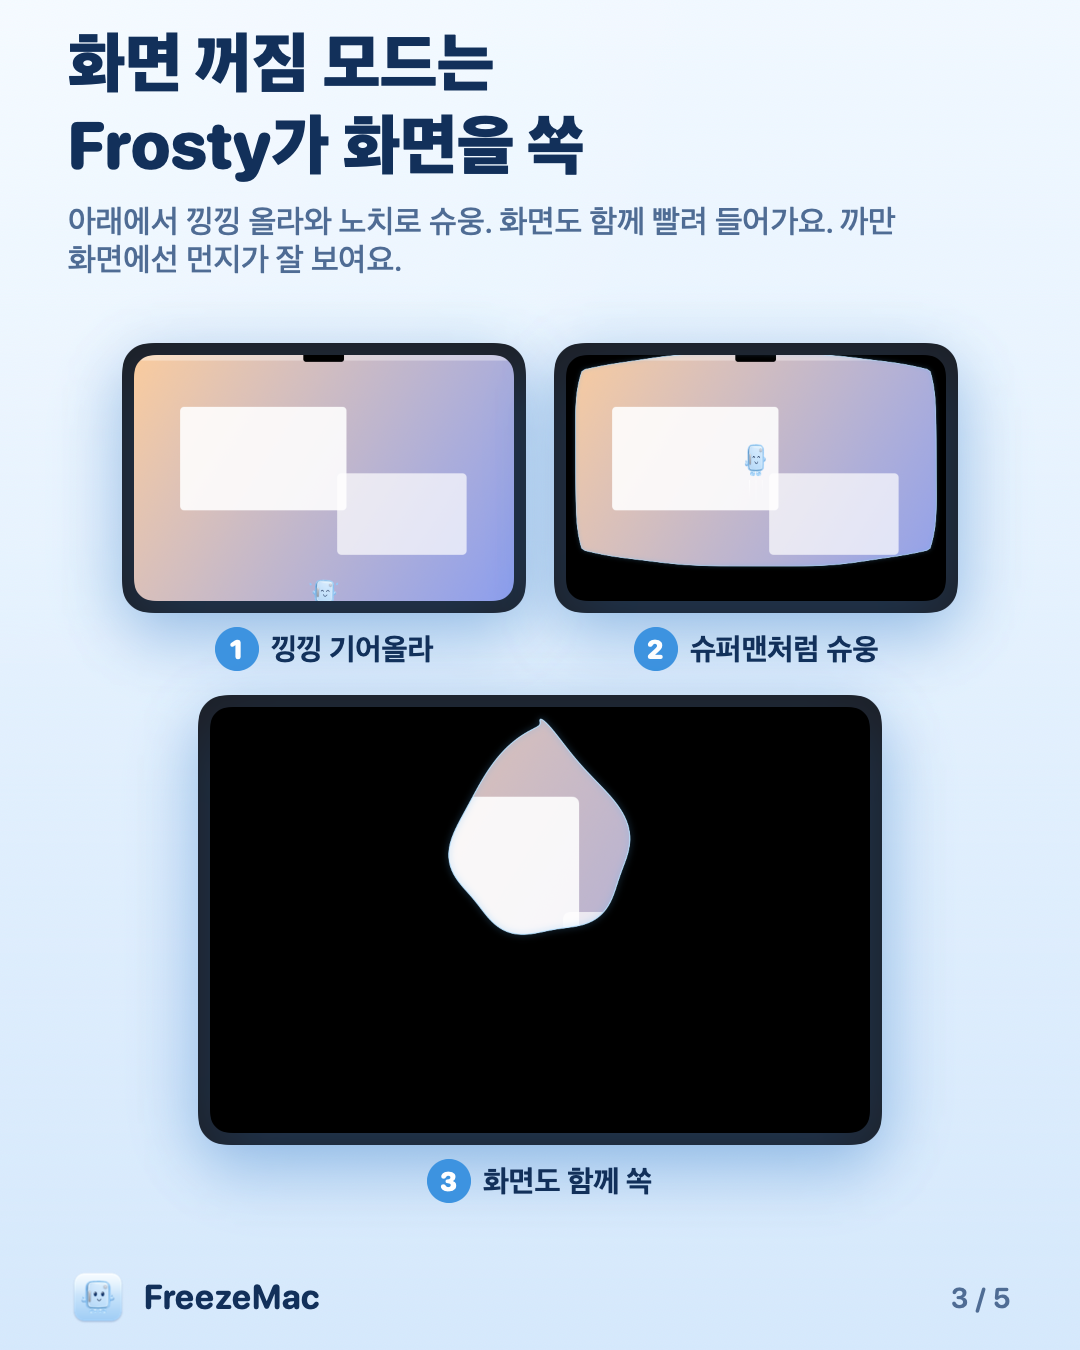
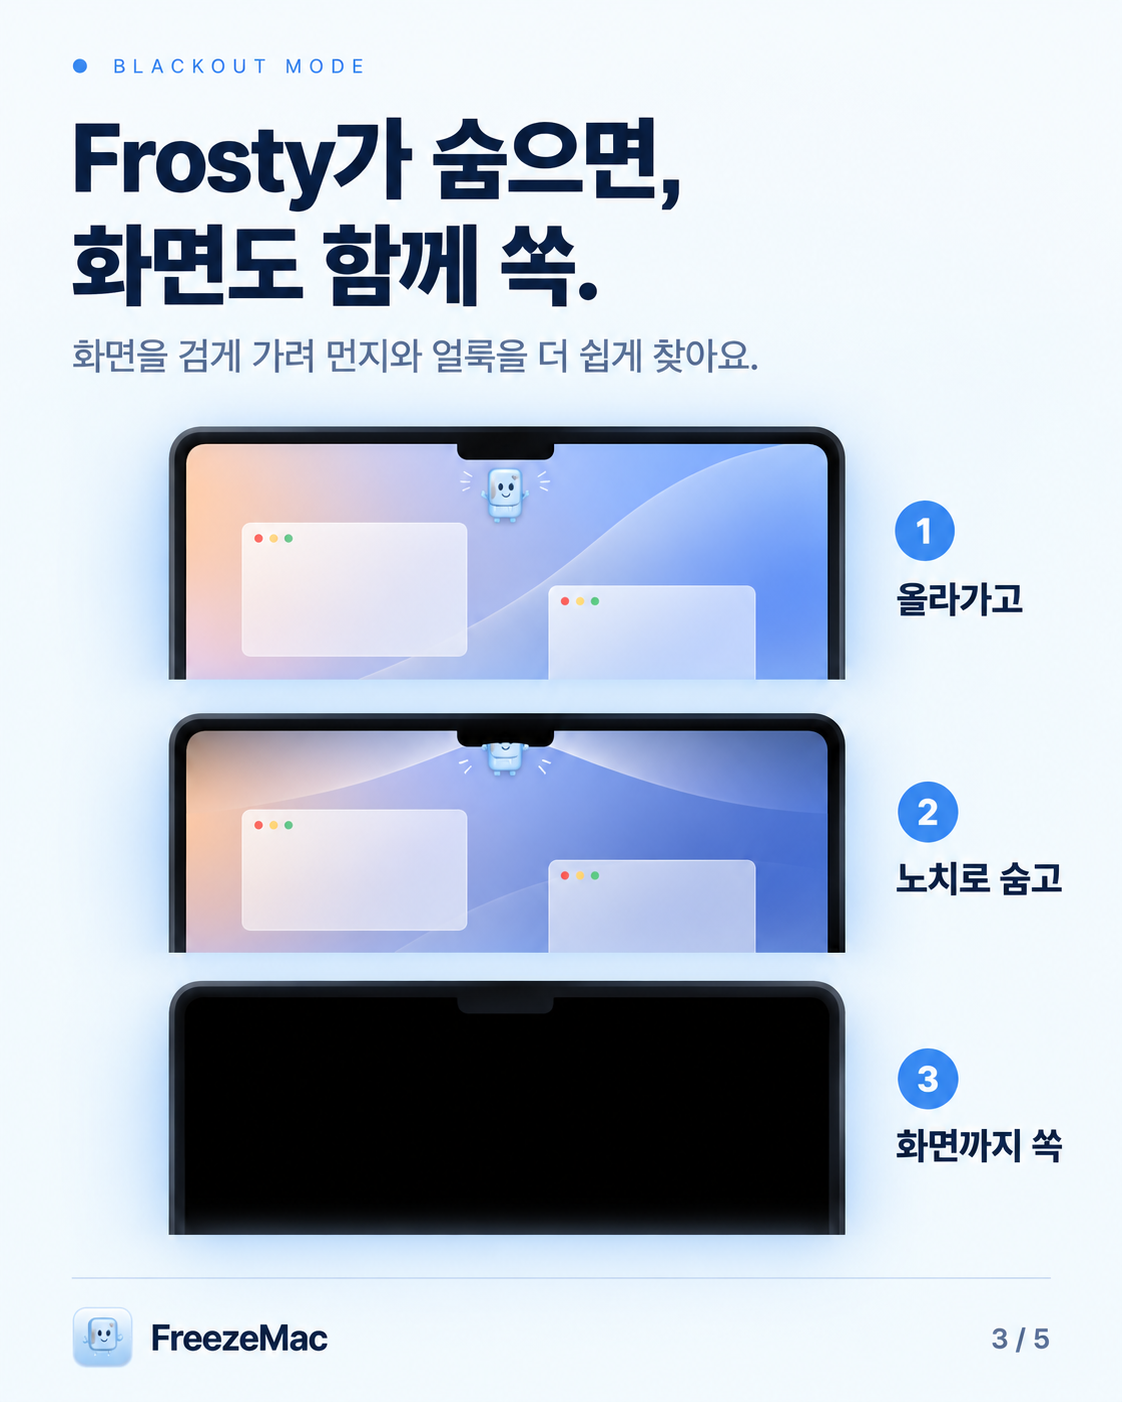
Use the refined promo images in the README
🗿 MoAI

diff --git a/README.md b/README.md
@@ -6,9 +6,13 @@
 *A macOS app that freezes keyboard and trackpad input while you clean your MacBook or let a child watch a video. The screen keeps working; only input is locked.*
 
 <p align="center">
-  <img src="docs/images/intro.png" width="32%" alt="FreezeMac main window">
-  <img src="docs/images/blackout.png" width="32%" alt="Frosty blackout animation">
-  <img src="docs/images/unlock.png" width="32%" alt="Unlock methods">
+  <img src="docs/images/intro.png" width="32%" alt="Cleaning mode: the FreezeMac window">
+  <img src="docs/images/kids.png" width="32%" alt="Watch mode: a video keeps playing while input is locked">
+  <img src="docs/images/blackout.png" width="32%" alt="Blackout mode: Frosty hides in the notch and the screen goes dark">
+</p>
+<p align="center">
+  <img src="docs/images/unlock.png" width="32%" alt="Choose how to unlock">
+  <img src="docs/images/safety.png" width="32%" alt="Always unlocks on its own">
 </p>
 
 ## 기능
